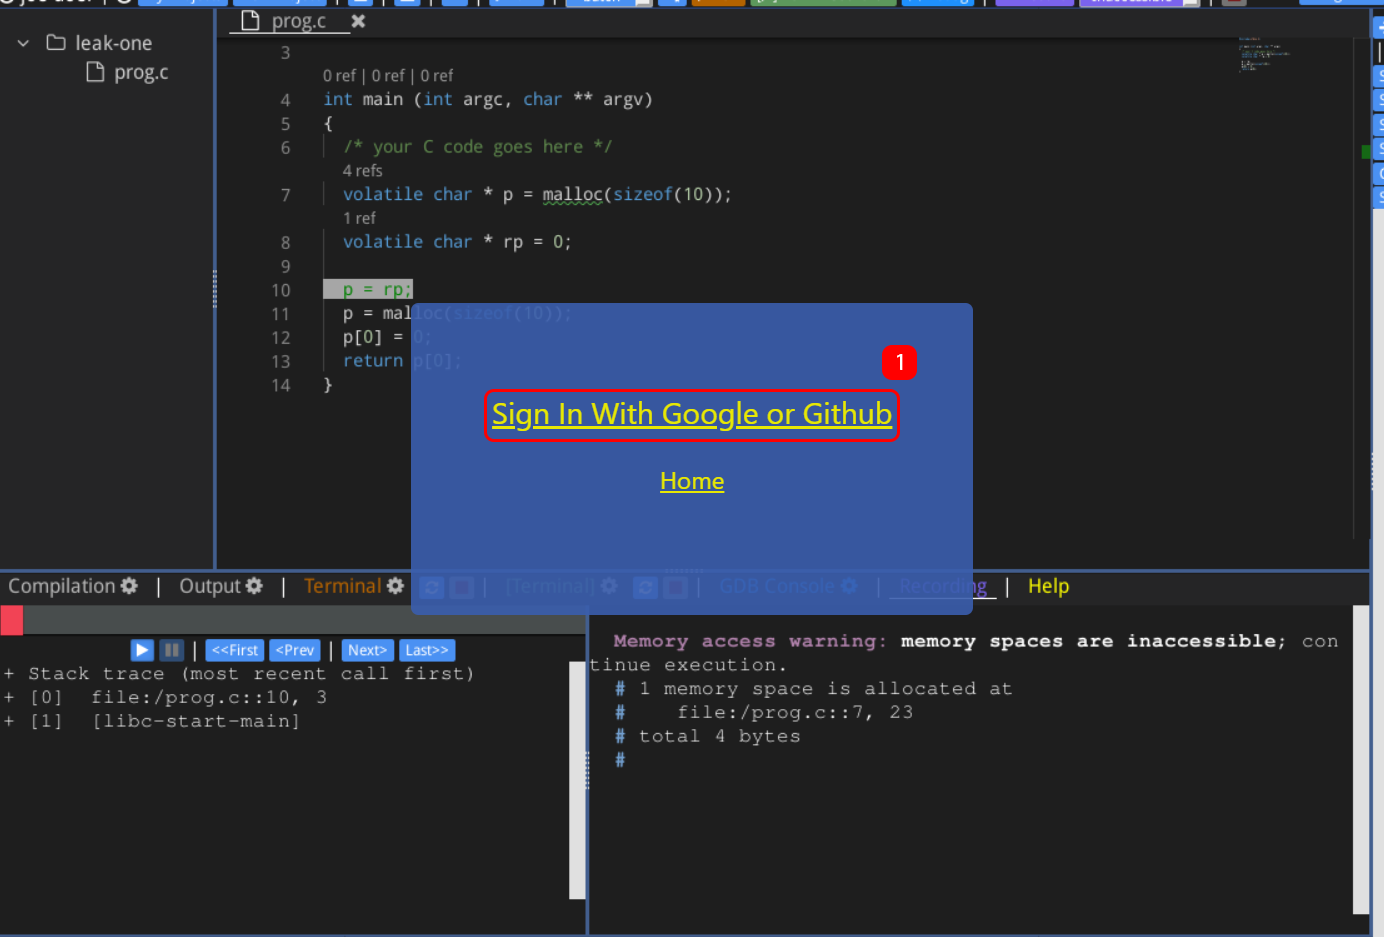
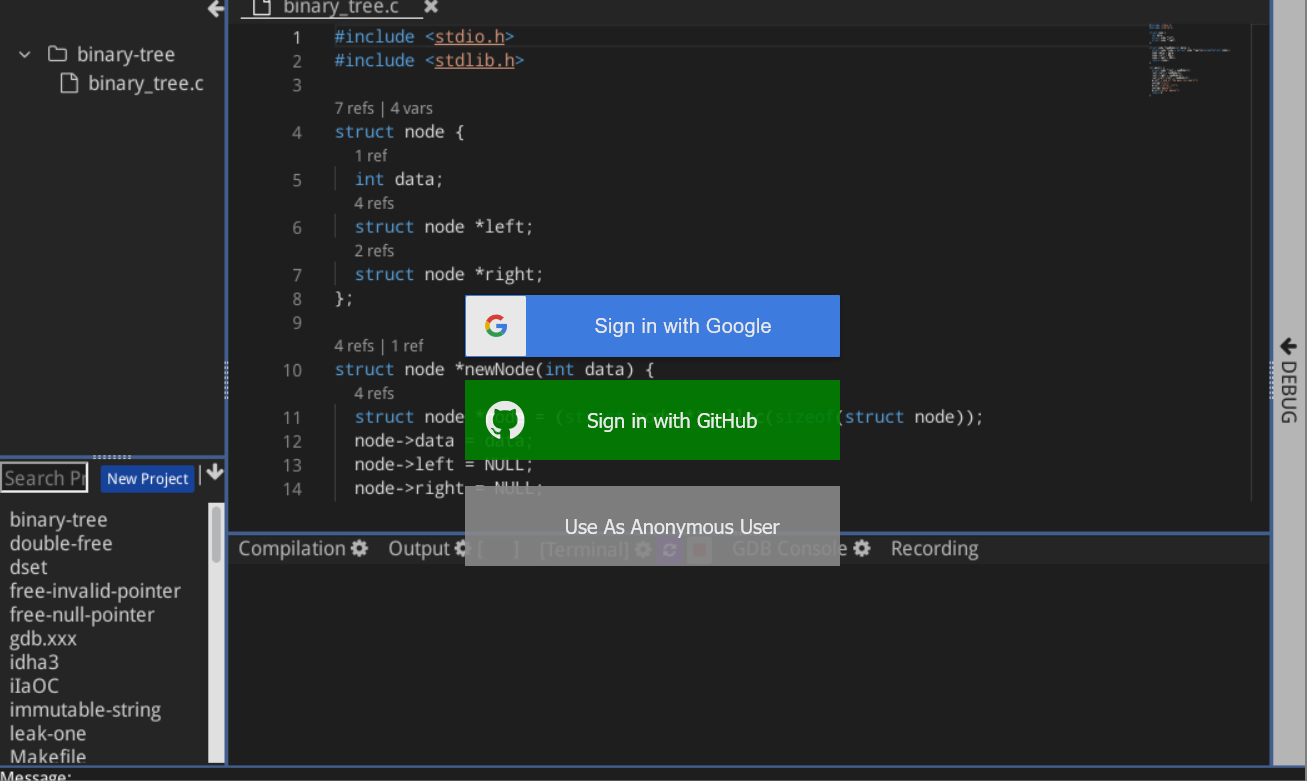
Changing images
Images changed to reflect current workings of ceestudio. Changed the starting step to be clicking on the link.

Changed region(s): [[0.0, 0.0, 1.0, 1.0]]

diff --git a/build/html/CS50 Tutorial.html b/build/html/CS50 Tutorial.html
@@ -33,15 +33,14 @@
             
   <div class="section" id="a-quick-start-on-psets">
 <h1>A Quick Start on Psets<a class="headerlink" href="#a-quick-start-on-psets" title="Permalink to this headline">¶</a></h1>
-<img alt="_images/login_page.png" id="loginbar" src="_images/login_page.png" />
-<div class="section" id="log-in">
-<h2><a class="reference internal" href="#loginbar"><span class="std std-ref">1</span></a>. Log-in<a class="headerlink" href="#log-in" title="Permalink to this headline">¶</a></h2>
+<div class="section" id="starting-up">
+<h2>1. Starting up<a class="headerlink" href="#starting-up" title="Permalink to this headline">¶</a></h2>
 <blockquote>
-<div><p>Log-into the system either anonymously or using Google/Github.
+<div><p>Click on this link <a class="reference external" href="https://cde.stensal.io/2020-cs50">https://cde.stensal.io/2020-cs50</a> to go to the demo pages.
 <span class="raw-html"><br /></span>
 You should be introduced with this page:</p>
-</div></blockquote>
 <img alt="_images/main_page.png" id="mainbar" src="_images/main_page.png" />
+</div></blockquote>
 </div>
 <div class="section" id="opening-up-the-projects-folder">
 <h2><a class="reference internal" href="#mainbar"><span class="std std-ref">2</span></a>. Opening up the Projects Folder<a class="headerlink" href="#opening-up-the-projects-folder" title="Permalink to this headline">¶</a></h2>
@@ -57,7 +56,12 @@ The panel should look like the below:</p>
 <h2><a class="reference internal" href="#mainbar"><span class="std std-ref">3</span></a>. Cloning the project<a class="headerlink" href="#cloning-the-project" title="Permalink to this headline">¶</a></h2>
 <blockquote>
 <div><p>Click on the <a class="reference internal" href="_images/clone_button.png"><img alt="clone_button" class="align-bottom" src="_images/clone_button.png" style="height: 16px;" /></a> to clone the pset to your account so you can save changes.
-This will redirect you to a similar looking page, but this time with different buttons on the top-right, shown below:</p>
+<span class="raw-html"><br /></span>
+It should show you this page:</p>
+<img alt="_images/login_page.png" id="loginbar" src="_images/login_page.png" />
+<p>Log in anonomously or with Github/Google.
+<span class="raw-html"><br /></span>
+This will redirect you to a similar looking page as the <a class="reference internal" href="#mainbar"><span class="std std-ref">page before</span></a>, but this time with different buttons on the top-right, shown below:</p>
 <img alt="_images/another_tooltip.png" id="tooltip" src="_images/another_tooltip.png" />
 </div></blockquote>
 </div>
@@ -149,23 +153,8 @@ You can then switch the configurations to your configuration (<a class="referenc
 <h3>Navigation</h3>
 <p class="caption"><span class="caption-text">Contents:</span></p>
 <ul class="current">
-<li class="toctree-l1 current"><a class="current reference internal" href="#">A Quick Start on Psets</a><ul>
-<li class="toctree-l2"><a class="reference internal" href="#log-in"><span class="xref std std-ref">1</span>. Log-in</a></li>
-<li class="toctree-l2"><a class="reference internal" href="#opening-up-the-projects-folder"><span class="xref std std-ref">2</span>. Opening up the Projects Folder</a></li>
-<li class="toctree-l2"><a class="reference internal" href="#cloning-the-project"><span class="xref std std-ref">3</span>. Cloning the project</a></li>
-<li class="toctree-l2"><a class="reference internal" href="#opening-your-project"><span class="xref std std-ref">4</span>. Opening Your Project</a></li>
-<li class="toctree-l2"><a class="reference internal" href="#running-your-project"><span class="xref std std-ref">6</span>. Running Your Project</a></li>
-<li class="toctree-l2"><a class="reference internal" href="#saving-your-project"><span class="xref std std-ref">9</span>. Saving Your Project</a></li>
-</ul>
-</li>
-<li class="toctree-l1"><a class="reference internal" href="#additional-info-pset4-configs">Additional Info. Pset4 Configs</a><ul>
-<li class="toctree-l2"><a class="reference internal" href="#changing-build-configuration">Changing build configuration</a><ul>
-<li class="toctree-l3"><a class="reference internal" href="#changing-the-top-parts">Changing the top parts</a></li>
-<li class="toctree-l3"><a class="reference internal" href="#changing-the-bottom-parts">Changing the bottom parts</a></li>
-</ul>
-</li>
-</ul>
-</li>
+<li class="toctree-l1 current"><a class="current reference internal" href="#">A Quick Start on Psets</a></li>
+<li class="toctree-l1"><a class="reference internal" href="#additional-info-pset4-configs">Additional Info. Pset4 Configs</a></li>
 </ul>
 
 <div class="relations">

diff --git a/build/html/searchindex.js b/build/html/searchindex.js
@@ -1,1 +1,1 @@
-Search.setIndex({docnames:["CS50 Tutorial","index"],envversion:{"sphinx.domains.c":2,"sphinx.domains.changeset":1,"sphinx.domains.citation":1,"sphinx.domains.cpp":2,"sphinx.domains.index":1,"sphinx.domains.javascript":2,"sphinx.domains.math":2,"sphinx.domains.python":2,"sphinx.domains.rst":2,"sphinx.domains.std":1,sphinx:56},filenames:["CS50 Tutorial.rst","index.rst"],objects:{},objnames:{},objtypes:{},terms:{"class":[],"function":0,"new":0,"switch":0,Doing:0,For:0,IDE:0,The:0,account:0,addit:1,after:0,again:0,align:[],allow:0,ani:0,anonym:0,anyth:0,argument:0,befor:0,below:0,bmp:0,bottom:1,build:1,button:0,call:0,can:0,chang:1,click:0,clone:1,clone_button:[],close:0,code:0,compil:0,config:1,configur:1,content:1,continu:0,correctli:0,ctrl:0,current:0,differ:0,doing:0,done:0,either:0,enabl:0,everyth:0,exampl:0,execut:0,file:0,find:0,first:0,focus:0,folder:1,gave:0,github:0,going:0,googl:0,have:0,height:[],imag:[],index:1,info:1,inform:0,introduc:0,isn:0,left:0,like:0,log:1,look:0,made:0,main_pag:[],make:0,mode:0,modul:1,must:0,name:0,need:0,normal:0,note:0,now:0,open:1,order:0,out:0,output:0,page:[0,1],panel:0,part:1,peopl:0,pleas:0,png:[],pop:0,program:0,project:1,pset2:0,pset4:1,pset:1,quick:1,red:[],redirect:0,requir:0,right:0,rst:[],run:1,run_button:[],safe:0,save:1,screen:0,scroll:0,search:1,see:0,send:0,set:0,should:0,shown:0,side:0,similar:0,sinc:0,some:0,someth:0,start:1,stdin:0,stensal_project_configur:0,step:0,system:0,tab:0,termin:0,thi:0,thing:0,through:0,time:0,tool:0,tooltip:0,top:1,tutori:0,use:0,using:0,want:0,websit:0,well:0,where:0,would:0,you:0,your:1},titles:["A Quick Start on Psets","Stensal CEE Studio"],titleterms:{addit:0,backlink:[],bottom:0,build:0,cee:1,chang:0,clone:0,config:0,configur:0,content:[],doc:[],document:[],entri:[],folder:0,indic:1,info:0,inform:[],local:[],log:0,open:0,part:0,project:0,pset4:0,pset:0,quick:0,red:[],run:0,save:0,start:0,stensal:1,studio:1,tabl:1,top:0,welcom:[],your:0}})
+Search.setIndex({docnames:["CS50 Tutorial","index"],envversion:{"sphinx.domains.c":2,"sphinx.domains.changeset":1,"sphinx.domains.citation":1,"sphinx.domains.cpp":2,"sphinx.domains.index":1,"sphinx.domains.javascript":2,"sphinx.domains.math":2,"sphinx.domains.python":2,"sphinx.domains.rst":2,"sphinx.domains.std":1,sphinx:56},filenames:["CS50 Tutorial.rst","index.rst"],objects:{},objnames:{},objtypes:{},terms:{"function":0,"new":0,"switch":0,Doing:0,For:0,IDE:0,The:0,account:0,addit:1,after:0,again:0,allow:0,ani:0,anonom:0,anyth:0,argument:0,befor:0,below:0,bmp:0,button:0,call:0,can:0,cde:0,click:0,close:0,code:0,compil:0,config:1,content:1,continu:0,correctli:0,cs50:0,ctrl:0,current:0,demo:0,differ:0,doing:0,done:0,enabl:0,everyth:0,exampl:0,execut:0,file:0,find:0,first:0,focus:0,gave:0,github:0,going:0,googl:0,have:0,http:0,info:1,inform:0,introduc:0,isn:0,left:0,like:0,link:0,log:0,look:0,made:0,make:0,mode:0,must:0,name:0,need:0,normal:0,note:0,now:0,order:0,out:0,output:0,page:0,panel:0,peopl:0,pleas:0,pop:0,program:0,pset2:0,pset4:1,pset:1,quick:1,redirect:0,requir:0,right:0,safe:0,screen:0,scroll:0,see:0,send:0,set:0,should:0,show:0,shown:0,side:0,similar:0,sinc:0,some:0,someth:0,start:1,stdin:0,stensal:0,stensal_project_configur:0,step:0,tab:0,termin:0,thi:0,thing:0,through:0,time:0,tool:0,tooltip:0,tutori:0,use:0,using:0,want:0,websit:0,well:0,where:0,would:0,you:0},titles:["A Quick Start on Psets","Stensal CEE Studio"],titleterms:{addit:0,bottom:0,build:0,cee:1,chang:0,clone:0,config:0,configur:0,folder:0,info:0,open:0,part:0,project:0,pset4:0,pset:0,quick:0,run:0,save:0,start:0,stensal:1,studio:1,top:0,your:0}})

diff --git a/build/html/index.html b/build/html/index.html
@@ -36,33 +36,10 @@
 <div class="toctree-wrapper compound">
 <p class="caption"><span class="caption-text">Contents:</span></p>
 <ul>
-<li class="toctree-l1"><a class="reference internal" href="CS50 Tutorial.html">A Quick Start on Psets</a><ul>
-<li class="toctree-l2"><a class="reference internal" href="CS50 Tutorial.html#log-in"><span class="xref std std-ref">1</span>. Log-in</a></li>
-<li class="toctree-l2"><a class="reference internal" href="CS50 Tutorial.html#opening-up-the-projects-folder"><span class="xref std std-ref">2</span>. Opening up the Projects Folder</a></li>
-<li class="toctree-l2"><a class="reference internal" href="CS50 Tutorial.html#cloning-the-project"><span class="xref std std-ref">3</span>. Cloning the project</a></li>
-<li class="toctree-l2"><a class="reference internal" href="CS50 Tutorial.html#opening-your-project"><span class="xref std std-ref">4</span>. Opening Your Project</a></li>
-<li class="toctree-l2"><a class="reference internal" href="CS50 Tutorial.html#running-your-project"><span class="xref std std-ref">6</span>. Running Your Project</a></li>
-<li class="toctree-l2"><a class="reference internal" href="CS50 Tutorial.html#saving-your-project"><span class="xref std std-ref">9</span>. Saving Your Project</a></li>
-</ul>
-</li>
-<li class="toctree-l1"><a class="reference internal" href="CS50 Tutorial.html#additional-info-pset4-configs">Additional Info. Pset4 Configs</a><ul>
-<li class="toctree-l2"><a class="reference internal" href="CS50 Tutorial.html#changing-build-configuration">Changing build configuration</a><ul>
-<li class="toctree-l3"><a class="reference internal" href="CS50 Tutorial.html#changing-the-top-parts">Changing the top parts</a></li>
-<li class="toctree-l3"><a class="reference internal" href="CS50 Tutorial.html#changing-the-bottom-parts">Changing the bottom parts</a></li>
-</ul>
-</li>
-</ul>
-</li>
+<li class="toctree-l1"><a class="reference internal" href="CS50 Tutorial.html">A Quick Start on Psets</a></li>
+<li class="toctree-l1"><a class="reference internal" href="CS50 Tutorial.html#additional-info-pset4-configs">Additional Info. Pset4 Configs</a></li>
 </ul>
 </div>
-</div>
-<div class="section" id="indices-and-tables">
-<h1>Indices and tables<a class="headerlink" href="#indices-and-tables" title="Permalink to this headline">¶</a></h1>
-<ul class="simple">
-<li><p><a class="reference internal" href="genindex.html"><span class="std std-ref">Index</span></a></p></li>
-<li><p><a class="reference internal" href="py-modindex.html"><span class="std std-ref">Module Index</span></a></p></li>
-<li><p><a class="reference internal" href="search.html"><span class="std std-ref">Search Page</span></a></p></li>
-</ul>
 </div>
 
 

diff --git a/source/CS50 Tutorial.rst b/source/CS50 Tutorial.rst
@@ -16,17 +16,14 @@
 A Quick Start on Psets
 ======================
 
-.. _loginbar:
-.. image:: images/login_page.png
-
-:ref:`1<loginbar>`. Log-in
-**************************
-    Log-into the system either anonymously or using Google/Github.
+1. Starting up
+*******************************
+    Click on this link https://cde.stensal.io/2020-cs50 to go to the demo pages.
     :raw-html:`<br />`
     You should be introduced with this page:
 
-.. _mainbar:
-.. image:: images/main_page.png
+    .. _mainbar:
+    .. image:: images/main_page.png
 
 :ref:`2<mainbar>`. Opening up the Projects Folder
 *************************************************
@@ -42,7 +39,15 @@ A Quick Start on Psets
 :ref:`3<mainbar>`. Cloning the project
 **************************************
     Click on the |clone_button| to clone the pset to your account so you can save changes. 
-    This will redirect you to a similar looking page, but this time with different buttons on the top-right, shown below:
+    :raw-html:`<br />`
+    It should show you this page:
+
+    .. _loginbar:
+    .. image:: images/login_page.png
+
+    Log in anonomously or with Github/Google.
+    :raw-html:`<br />`
+    This will redirect you to a similar looking page as the :ref:`page before<mainbar>`, but this time with different buttons on the top-right, shown below:
 
     .. _tooltip:
     .. image:: images/another_tooltip.png
